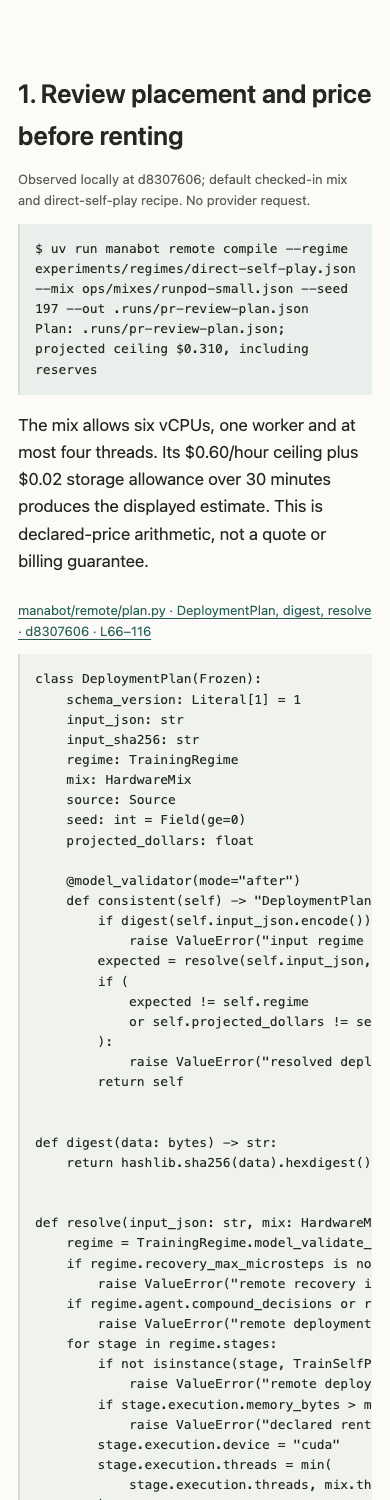
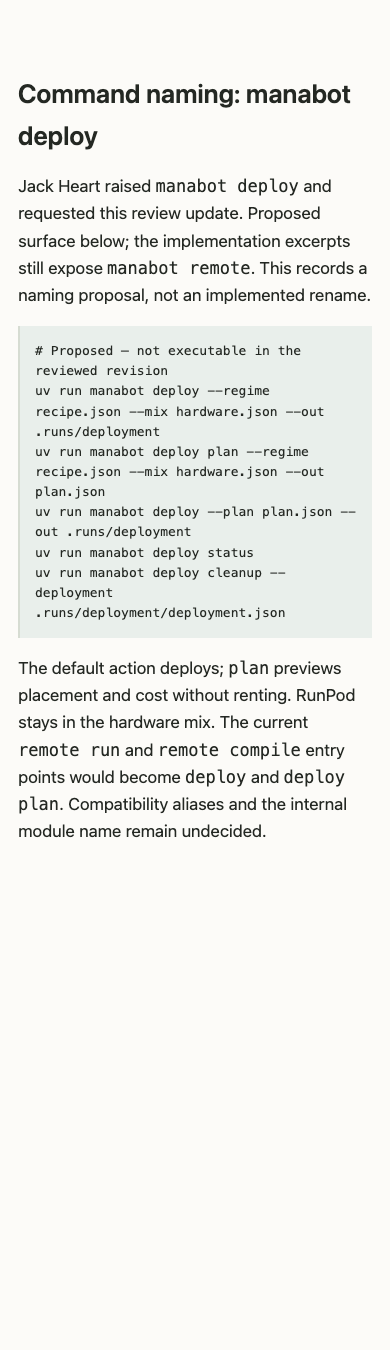
lf land: stage uncommitted changes

diff --git a/scratch/pr-review.html b/scratch/pr-review.html
@@ -1,17 +1,22 @@
 <!doctype html><html lang="en"><meta charset="utf-8"><meta name="viewport" content="width=device-width, initial-scale=1"><title>Remote training · ETU-114 review</title><style>
 :root{color-scheme:light}*{box-sizing:border-box}body{margin:0;background:#fcfbf8;color:#242823;font:17px/1.6 system-ui,sans-serif}main{max-width:1120px;margin:auto;padding:48px 34px 100px}h1{font-size:38px;font-weight:600;letter-spacing:-1px;line-height:1.2}h2{font-size:26px;font-weight:600;margin:0 0 12px}p{max-width:850px}a{color:#245e55;text-underline-offset:3px}nav{display:flex;gap:22px;flex-wrap:wrap;margin:30px 0}section{margin-top:65px;scroll-margin-top:24px}small,.caption,figcaption{font-size:13px;color:#59615a}.scope{font-size:14px;overflow-wrap:anywhere}table{width:100%;border-collapse:collapse;margin:28px 0}th,td{text-align:left;vertical-align:top;padding:15px 14px;border-bottom:1px solid #d9ddd5}th{font-size:14px}td:first-child{width:23%}figure{margin:25px 0}figcaption{margin-bottom:8px}pre{background:#f0f2ed;padding:22px;overflow:auto;font:14px/1.55 ui-monospace,SFMono-Regular,Consolas,monospace;tab-size:4;border-left:2px solid #d6dcd2}pre.terminal{background:#e9efeb;white-space:pre-wrap;overflow-wrap:anywhere}.note{border-left:3px solid #8e7653;padding-left:18px}details{margin:24px 0}summary{cursor:pointer;color:#245e55}a:focus-visible,summary:focus-visible,pre:focus-visible{outline:3px solid #a56324;outline-offset:4px}footer{margin-top:65px;border-top:1px solid #d9ddd5;padding-top:20px}@media(max-width:640px){main{padding:28px 18px 65px}h1{font-size:30px}pre{padding:15px;font-size:13px}table,tbody,tr,td{display:block}thead{display:none}td{border:0;padding:7px 0}td:first-child{width:auto;font-weight:600}tr{border-bottom:1px solid #d9ddd5;padding:14px 0}td:before{content:attr(data-label);display:block;font-size:12px;color:#59615a}section{margin-top:45px}}@media print{body{background:white}main{max-width:none;padding:0}nav{display:none}pre{white-space:pre-wrap;overflow-wrap:anywhere;font-size:10px}h2,figcaption{break-after:avoid}details{display:block}a{color:inherit}}
-</style><main><header><small>ETU-114 · implementation walkthrough · 6 October 2026</small><h1>Run a regime. Bring the evidence home.</h1><p>The new <code>manabot remote</code> command resolves an existing self-play recipe onto one declared RunPod GPU, retrieves its records and policies, then confirms deletion. The software path is present; the real under-$5 deployment remains unproved.</p>
-<p class="scope">Local branch comparison: base <code>fd7437dfd84cd1e24785a6d7febee78fceff3d80</code><br>Head <code>d830760603c0bfe277937b17768bc4c33139272c</code>. GitHub reports no PR for this branch. The checkout was clean at inspection; this review adds only local review artifacts. Source links are revision-pinned, but availability of this unpublished head was not established.</p></header>
-<nav aria-label="Reading route"><a href="#plan">1. Review cost</a><a href="#run">2. Rent and train</a><a href="#return">3. Bring results home</a><a href="#cleanup">4. Recover cleanup</a></nav><table><thead><tr><th>When you…</th><th>What happens</th><th>Where the code controls this</th></tr></thead><tbody>
+</style><main><header><small>ETU-114 · implementation walkthrough · 6 October 2026</small><h1>Run a regime. Bring the evidence home.</h1><p>The new <code>manabot remote</code> command resolves an existing self-play recipe onto one declared RunPod GPU, retrieves its records and policies, then confirms deletion. The documented live proof now includes CUDA self-play, returned raw/EMA checkpoints, four terminal replayed arena games and confirmed empty inventory.</p>
+<p class="scope"><a href="https://github.com/loopflowstudio/etude/pull/252">PR #252</a> · base <code>d7b69fc016c9b9d90c48190a414eb0cff6fe94f9</code><br>Published head <code>6d718f770b4be0064ca300f9558a3fb3f8f4d6d8</code>. This local review refresh is unpublished. Excerpts are revision-pinned; the compile transcript retains its original observation revision.</p></header>
+<nav aria-label="Reading route"><a href="#command-review">Command naming</a><a href="#plan">1. Review cost</a><a href="#run">2. Rent and train</a><a href="#return">3. Bring results home</a><a href="#cleanup">4. Recover cleanup</a></nav><table><thead><tr><th>When you…</th><th>What happens</th><th>Where the code controls this</th></tr></thead><tbody>
 <tr><td data-label="When you…">Compile a regime and mix</td><td data-label="What happens">A plan file records the resolved CUDA recipe, source identity and projected cost before a rental.</td><td data-label="Code"><a href="#plan">DeploymentPlan</a> binds the inputs; resolve limits threads using the declared rental.</td></tr>
 <tr><td data-label="When you…">Run the saved plan</td><td data-label="What happens">A short pod first demonstrates deadline deletion. Only then does the training pod start under the same outer allowance.</td><td data-label="Code"><a href="#run">run_command and deploy</a> validate source and record each attempt in a private Receipt.</td></tr>
 <tr><td data-label="When you…">Use the returned checkpoint</td><td data-label="What happens">Its original bytes are checked against the run and database, then loaded through the ordinary policy loader.</td><td data-label="Code"><a href="#return">verify_training_bundle</a> admits policy exports; Bundle resolves their relocated paths.</td></tr>
 <tr><td data-label="When you…">Interrupt a launch or retry cleanup</td><td data-label="What happens">Deletion is attempted for recorded rentals. Unconfirmed absence is a loud error; incomplete costs stay unknown.</td><td data-label="Code"><a href="#cleanup">deploy’s finally block and cleanup</a> preserve the receipt and retry deletion without resuming training.</td></tr></tbody></table>
-<section id="plan"><h2>1. Review placement and price before renting</h2>
+<section id="command-review"><h2>Command naming: manabot deploy</h2><p>Jack Heart raised <code>manabot deploy</code> and requested this review update. Proposed surface below; the implementation excerpts still expose <code>manabot remote</code>. This records a naming proposal, not an implemented rename.</p><pre class="terminal" tabindex="0"># Proposed — not executable in the reviewed revision
+uv run manabot deploy --regime recipe.json --mix hardware.json --out .runs/deployment
+uv run manabot deploy plan --regime recipe.json --mix hardware.json --out plan.json
+uv run manabot deploy --plan plan.json --out .runs/deployment
+uv run manabot deploy status
+uv run manabot deploy cleanup --deployment .runs/deployment/deployment.json</pre><p>The default action deploys; <code>plan</code> previews placement and cost without renting. RunPod stays in the hardware mix. The current <code>remote run</code> and <code>remote compile</code> entry points would become <code>deploy</code> and <code>deploy plan</code>. Compatibility aliases and the internal module name remain undecided.</p></section><section id="plan"><h2>1. Review placement and price before renting</h2>
 <p class="caption">Observed locally at d8307606; default checked-in mix and direct-self-play recipe. No provider request.</p><pre class="terminal" tabindex="0">$ uv run manabot remote compile --regime experiments/regimes/direct-self-play.json --mix ops/mixes/runpod-small.json --seed 197 --out .runs/pr-review-plan.json
 Plan: .runs/pr-review-plan.json; projected ceiling $0.310, including reserves</pre>
 <p>The mix allows six vCPUs, one worker and at most four threads. Its $0.60/hour ceiling plus $0.02 storage allowance over 30 minutes produces the displayed estimate. This is declared-price arithmetic, not a quote or billing guarantee.</p>
-<figure><figcaption><a href="https://github.com/loopflowstudio/etude/blob/d830760603c0bfe277937b17768bc4c33139272c/manabot/remote/plan.py#L66-L116">manabot/remote/plan.py · DeploymentPlan, digest, resolve · d8307606 · L66–116</a></figcaption><pre tabindex="0"><code>class DeploymentPlan(Frozen):
+<figure><figcaption><a href="https://github.com/loopflowstudio/etude/blob/6d718f770b4be0064ca300f9558a3fb3f8f4d6d8/manabot/remote/plan.py#L66-L116">manabot/remote/plan.py · DeploymentPlan, digest, resolve · 6d718f77 · L66–116</a></figcaption><pre tabindex="0"><code>class DeploymentPlan(Frozen):
     schema_version: Literal[1] = 1
     input_json: str
     input_sha256: str
@@ -68,7 +73,7 @@ def resolve(input_json: str, mix: HardwareMix) -&gt; TrainingRegime:
 [resolved plan JSON printed here]
 [after completion] Evidence: .runs/remote-example/evidence; deletion confirmed; estimated dollars: &lt;estimate&gt;
 &lt;verified local policy paths&gt;</pre>
-<figure><figcaption><a href="https://github.com/loopflowstudio/etude/blob/d830760603c0bfe277937b17768bc4c33139272c/manabot/remote/cli.py#L41-L65">manabot/remote/cli.py · run_command · d8307606 · L41–65</a></figcaption><pre tabindex="0"><code>@app.command(&quot;run&quot;)
+<figure><figcaption><a href="https://github.com/loopflowstudio/etude/blob/6d718f770b4be0064ca300f9558a3fb3f8f4d6d8/manabot/remote/cli.py#L41-L65">manabot/remote/cli.py · run_command · 6d718f77 · L41–65</a></figcaption><pre tabindex="0"><code>@app.command(&quot;run&quot;)
 def run_command(
     out: Path = typer.Option(...),
     plan: Path | None = None,
@@ -93,8 +98,8 @@ def run_command(
     for policy in result.policies:
         typer.echo(policy)
 </code></pre></figure>
-<p>Deployment requires the exact committed source to be publicly fetchable. Each command uses a fresh directory, stores intent before create, and records provider identifiers only in private evidence. Receipt owns deployment state; the existing TrainingRun and VerifyStore retain training authority.</p>
-<figure><figcaption><a href="https://github.com/loopflowstudio/etude/blob/d830760603c0bfe277937b17768bc4c33139272c/manabot/remote/deploy.py#L30-L57">manabot/remote/deploy.py · Attempt and Receipt · d8307606 · L30–57</a></figcaption><pre tabindex="0"><code>class Attempt(BaseModel):
+<p class="note"><strong>Proposed type names:</strong> <code>RentalAttempt</code> and <code>DeploymentReceipt</code>. Jack Heart flagged the existing names as vague. Each rental attempt describes one intended pod, including uncertain creation or deletion; the deployment receipt groups those rentals with the plan, returned policies and overall outcome. Source below retains the implemented names.</p><p>Deployment requires the exact committed source to be publicly fetchable. Each command uses a fresh directory, stores intent before create, and records provider identifiers only in private evidence. Receipt owns deployment state; the existing TrainingRun and VerifyStore retain training authority.</p>
+<figure><figcaption><a href="https://github.com/loopflowstudio/etude/blob/6d718f770b4be0064ca300f9558a3fb3f8f4d6d8/manabot/remote/deploy.py#L30-L57">manabot/remote/deploy.py · Attempt and Receipt · 6d718f77 · L30–57</a></figcaption><pre tabindex="0"><code>class Attempt(BaseModel):
     name: str
     purpose: Literal[&quot;guardian&quot;, &quot;training&quot;]
     intent_time: float
@@ -122,7 +127,7 @@ class Receipt(BaseModel):
     complete: bool = False
     policies: list[str] = Field(default_factory=list)
     estimated_dollars: float | None = None</code></pre></figure>
-<figure><figcaption><a href="https://github.com/loopflowstudio/etude/blob/d830760603c0bfe277937b17768bc4c33139272c/manabot/remote/deploy.py#L351-L387">manabot/remote/deploy.py · deploy · guardian admission and training provisioning · d8307606 · L351–387</a></figcaption><pre tabindex="0"><code>        previous_signal = signal.signal(signal.SIGTERM, _terminate_signal)
+<figure><figcaption><a href="https://github.com/loopflowstudio/etude/blob/6d718f770b4be0064ca300f9558a3fb3f8f4d6d8/manabot/remote/deploy.py#L351-L387">manabot/remote/deploy.py · deploy · guardian admission and training provisioning · 6d718f77 · L351–387</a></figcaption><pre tabindex="0"><code>        previous_signal = signal.signal(signal.SIGTERM, _terminate_signal)
         try:
             receipt.phase = &quot;guardian-probe&quot;
             # Both probe and training are charged against this same deadline/cap.
@@ -159,8 +164,8 @@ class Receipt(BaseModel):
             )
             receipt.phase = &quot;bootstrap&quot;
             save(path, receipt)</code></pre></figure>
-<p class="note">The probe is repeated on every run and consumes setup time. During training the terminal has no live progress stream; the receipt’s phase is saved locally. A provider outage or a container that never starts can leave cleanup unresolved.</p><details><summary>CUDA wiring and the independent pod guardian</summary><p>Compared with the base, Execution now admits CUDA. The executor moves Agent before optimizer construction, passes device to collector and Experiment, synchronizes charged phase boundaries and preserves CUDA RNG around export admission. CPU remains the default. These changes have not yet been exercised on a real GPU in this implementation.</p>
-<figure><figcaption><a href="https://github.com/loopflowstudio/etude/blob/d830760603c0bfe277937b17768bc4c33139272c/manabot/training/execution.py#L869-L919">manabot/training/execution.py · _execute_regime · self-play setup · d8307606 · L869–919</a></figcaption><pre tabindex="0"><code>                if stage.initial and snapshot is None:
+<p class="note">The probe is repeated on every run and consumes setup time. During training the terminal has no live progress stream; the receipt’s phase is saved locally. A provider outage or a container that never starts can leave cleanup unresolved.</p><details><summary>CUDA wiring and the independent pod guardian</summary><p>Compared with the base, Execution now admits CUDA. The executor moves Agent before optimizer construction, passes device to collector and Experiment, synchronizes charged phase boundaries and preserves CUDA RNG around export admission. CPU remains the default. The retained CUDA device checks passed on rented hardware; the live attempts below supply complete-workflow evidence.</p>
+<figure><figcaption><a href="https://github.com/loopflowstudio/etude/blob/6d718f770b4be0064ca300f9558a3fb3f8f4d6d8/manabot/training/execution.py#L895-L945">manabot/training/execution.py · _execute_regime · self-play setup · 6d718f77 · L895–945</a></figcaption><pre tabindex="0"><code>                if stage.initial and snapshot is None:
                     # Validation permits only the latest live collector to continue.
                     trainer, ema, iteration = self_play_session
                 else:
@@ -211,7 +216,7 @@ class Receipt(BaseModel):
                             log_level=&quot;WARNING&quot;,
                         )
                     )</code></pre></figure>
-<figure><figcaption><a href="https://github.com/loopflowstudio/etude/blob/d830760603c0bfe277937b17768bc4c33139272c/manabot/remote/guardian.sh#L1-L13">manabot/remote/guardian.sh · pod deadline loop · d8307606 · L1–13</a></figcaption><pre tabindex="0"><code>#!/bin/bash
+<figure><figcaption><a href="https://github.com/loopflowstudio/etude/blob/6d718f770b4be0064ca300f9558a3fb3f8f4d6d8/manabot/remote/guardian.sh#L1-L13">manabot/remote/guardian.sh · pod deadline loop · 6d718f77 · L1–13</a></figcaption><pre tabindex="0"><code>#!/bin/bash
 # Started by PID 1 before source/bootstrap. No account credential is accepted.
 set -eu
 umask 077
@@ -225,7 +230,7 @@ while true; do
     sleep 5
 done</code></pre></figure>
 </details></section><section id="return"><h2>3. Return immutable evidence and load the policy</h2><p>After training, the remote command packages the closed output tree and downloads its manifest and files. Producer paths remain unchanged in TrainingRun; the bundle maps them to verified local files. A failed training status or mismatched database prevents successful deployment.</p>
-<figure><figcaption><a href="https://github.com/loopflowstudio/etude/blob/d830760603c0bfe277937b17768bc4c33139272c/manabot/remote/bundle.py#L99-L134">manabot/remote/bundle.py · verify_training_bundle · d8307606 · L99–134</a></figcaption><pre tabindex="0"><code>def verify_training_bundle(root: Path, bundle: Bundle) -&gt; list[Path]:
+<figure><figcaption><a href="https://github.com/loopflowstudio/etude/blob/6d718f770b4be0064ca300f9558a3fb3f8f4d6d8/manabot/remote/bundle.py#L99-L134">manabot/remote/bundle.py · verify_training_bundle · 6d718f77 · L99–134</a></figcaption><pre tabindex="0"><code>def verify_training_bundle(root: Path, bundle: Bundle) -&gt; list[Path]:
     &quot;&quot;&quot;Check all declared outputs; admit raw/EMA policies through the ordinary loader.&quot;&quot;&quot;
     bundle.verify(root)
     required = {&quot;training.sqlite&quot;, &quot;run/run.json&quot;}
@@ -261,8 +266,8 @@ done</code></pre></figure>
     if not policies:
         raise ValueError(&quot;returned run has no policy exports&quot;)
     return policies</code></pre></figure>
-<p class="note">Consequential acceptance gap: a successful <code>remote run</code> proves loader admission, not a completed game. The separate <code>tests.remote.live_acceptance</code> helper requires actual CUDA optimizer exposures and evaluates one four-leg arena block through the existing monitor evaluator. That helper has not run; a loader-only success cannot satisfy the Task.</p><details><summary>The saved-artifact arena acceptance path</summary>
-<figure><figcaption><a href="https://github.com/loopflowstudio/etude/blob/d830760603c0bfe277937b17768bc4c33139272c/tests/remote/live_acceptance.py#L61-L90">tests/remote/live_acceptance.py · main · CUDA work and arena evaluation · d8307606 · L61–90</a></figcaption><pre tabindex="0"><code>    if not all(
+<p class="note">API distinction: a successful <code>remote run</code> proves loader admission, not a completed game. The separate <code>tests.remote.live_acceptance</code> helper requires actual CUDA optimizer exposures and evaluates one four-leg arena block through the existing monitor evaluator. The current remote-training contract records completed four-game proofs for attempts 004–006. Arena verification remains separate from the deployment command.</p><details><summary>The saved-artifact arena acceptance path</summary>
+<figure><figcaption><a href="https://github.com/loopflowstudio/etude/blob/6d718f770b4be0064ca300f9558a3fb3f8f4d6d8/tests/remote/live_acceptance.py#L61-L90">tests/remote/live_acceptance.py · main · CUDA work and arena evaluation · 6d718f77 · L61–90</a></figcaption><pre tabindex="0"><code>    if not all(
         stage.actual_device.startswith(&quot;cuda&quot;) and stage.optimizer_exposures &gt; 0
         for stage in run.stages
     ):
@@ -300,7 +305,7 @@ Recorded deployment pods confirmed absent.
 
 [If cost evidence is missing, stderr also reports:]
 BILLING UNRESOLVED; deletion confirmed but cost evidence is incomplete</pre>
-<figure><figcaption><a href="https://github.com/loopflowstudio/etude/blob/d830760603c0bfe277937b17768bc4c33139272c/manabot/remote/deploy.py#L418-L444">manabot/remote/deploy.py · deploy · failure and finally cleanup · d8307606 · L418–444</a></figcaption><pre tabindex="0"><code>        except BaseException as error:
+<figure><figcaption><a href="https://github.com/loopflowstudio/etude/blob/6d718f770b4be0064ca300f9558a3fb3f8f4d6d8/manabot/remote/deploy.py#L418-L444">manabot/remote/deploy.py · deploy · failure and finally cleanup · 6d718f77 · L418–444</a></figcaption><pre tabindex="0"><code>        except BaseException as error:
             # Do not serialize arbitrary exceptions carrying provider payloads.
             receipt.error = type(error).__name__
             raise
@@ -327,7 +332,7 @@ BILLING UNRESOLVED; deletion confirmed but cost evidence is incomplete</pre>
                     f&quot;CLEANUP UNCONFIRMED; possible billing for {[(a.pod_id or a.name, a.hourly_rate) for a in receipt.attempts if a.deleted_time is None]}. Run: uv run manabot remote cleanup --deployment {path}&quot;
                 )
         return receipt</code></pre></figure>
-<figure><figcaption><a href="https://github.com/loopflowstudio/etude/blob/d830760603c0bfe277937b17768bc4c33139272c/manabot/remote/deploy.py#L447-L477">manabot/remote/deploy.py · cleanup · d8307606 · L447–477</a></figcaption><pre tabindex="0"><code>def cleanup(path: Path) -&gt; Receipt:
+<figure><figcaption><a href="https://github.com/loopflowstudio/etude/blob/6d718f770b4be0064ca300f9558a3fb3f8f4d6d8/manabot/remote/deploy.py#L447-L477">manabot/remote/deploy.py · cleanup · 6d718f77 · L447–477</a></figcaption><pre tabindex="0"><code>def cleanup(path: Path) -&gt; Receipt:
     receipt = Receipt.model_validate_json(path.read_text())
     provider = RunPod()
     with deployment_lock(Path.home() / &quot;.cache/manabot&quot;):
@@ -359,7 +364,7 @@ BILLING UNRESOLVED; deletion confirmed but cost evidence is incomplete</pre>
             )
     return receipt</code></pre></figure>
 <p>The receipt, failed attempt and any downloaded files survive. Cleanup does not retry training or complete an interrupted transfer; another deployment needs a fresh output directory. Confirmed absence and known cost are distinct: the acceptance helper refuses another rental when prior cost is unknown.</p><details><summary>How absence is established</summary>
-<figure><figcaption><a href="https://github.com/loopflowstudio/etude/blob/d830760603c0bfe277937b17768bc4c33139272c/manabot/remote/deploy.py#L137-L177">manabot/remote/deploy.py · confirm_delete · d8307606 · L137–177</a></figcaption><pre tabindex="0"><code>def confirm_delete(provider: RunPod, attempt: Attempt, until: float) -&gt; bool:
+<figure><figcaption><a href="https://github.com/loopflowstudio/etude/blob/6d718f770b4be0064ca300f9558a3fb3f8f4d6d8/manabot/remote/deploy.py#L137-L177">manabot/remote/deploy.py · confirm_delete · 6d718f77 · L137–177</a></figcaption><pre tabindex="0"><code>def confirm_delete(provider: RunPod, attempt: Attempt, until: float) -&gt; bool:
     &quot;&quot;&quot;Delete only the recorded pod or exact unique name; failed reads are unknown.&quot;&quot;&quot;
     while time.time() &lt; until:
         try:
@@ -400,4 +405,4 @@ BILLING UNRESOLVED; deletion confirmed but cost evidence is incomplete</pre>
             pass
         time.sleep(min(2, max(0, until - time.time())))
     return False</code></pre></figure>
-</details></section><section id="evidence"><h2>What remains to prove</h2><p>Accepted intent is one-command rental, CUDA execution, returned playable artifacts and visible cleanup failure. The single-GPU restriction, per-run guardian probe and separate arena helper are implementation choices. No new human approval or design change was recorded in this review.</p><p>Newly observed here: compile succeeded with a $0.310 projection. Inspected fixtures cover price mismatch, ambiguous create, bootstrap failure, interruption, deletion failure and bundle corruption. The design records 50 focused passes and one CUDA-host skip; that is prior evidence, not a new test run.</p><p>Complete mocked deployment and training/transfer timeout coverage remain open. The real guardian, CUDA run, returned checkpoint games and final empty inventory are still required. The documented zero-pod inventory is a dated 6 October observation; this review did not query current rentals.</p><p>The old AWS ops stack and boto3 dependencies are removed. Existing regime training, policy admission and arena evaluation supply the learning/gameplay paths; this change adds deployment around them.</p></section><footer><p><a href="remote-training-design.md">Design and retained shakedown evidence</a> · <a href="../docs/remote-training.md">Remote training contract</a> · <a href="remote-training-review.md">Review notes and next action</a></p><small>Local review artifact. No rental, product-code change, publication or merge decision.</small></footer></main></html>
+</details></section><section id="evidence"><h2>Evidence now on record</h2><p>The <a href="../docs/remote-training.md">remote-training contract at 6d718f77</a> records attempt 004 completing 27.73 minutes of CUDA self-play, 358,400 optimizer exposures, verified run/SQLite and raw/EMA artifacts, four terminal exact-replayed arena games and empty inventory. Attempt 005 completed 42.96 minutes; attempt 006 exercised local-disk setup. These are retained reports inspected for this refresh, not newly executed checks.</p><p>Task expenditure through attempt 007 is reported as $1.6591 estimated/reported, including failed attempts and the prior $0.29 shakedown; no provider invoice was obtained. The latest recorded inventory is zero pods on 6 October. No fresh inventory query or rental was made for this review.</p><p>The added two-experiment example reuses one pod at one exact source revision, performs setup once, returns both runs, and deletes the rental. It is a separate example, not a new public reuse mode. Default deployment still creates and deletes a fresh pod.</p><p>Full mocked default-deployment success and training/transfer timeout coverage are not claimed. Deployment evidence does not establish strength or chapter acceptance. The command-naming proposal above is the new review discussion; no merge decision or approval of the full implementation is recorded.</p><details><summary>Earlier evidence and source changes</summary><p>The compile transcript was captured at d8307606 and projected $0.310 without a provider request. Current documentation records 405 local passes with three skips, a later 47-check remote suite with one local CUDA skip, and two real CUDA device tests. These results were not rerun here. Compared with the PR base, this work adds RunPod deployment, CUDA wiring and read-only bundle admission and removes the old AWS ops stack. Existing training and arena APIs remain their respective authorities.</p></details></section><footer><p><a href="remote-training-design.md">Design and retained shakedown evidence</a> · <a href="../docs/remote-training.md">Remote training contract</a> · <a href="remote-training-review.md">Review notes and next action</a></p><small>Local review artifact. No rental, product-code change, publication or merge decision.</small></footer></main></html>

diff --git a/scratch/remote-training-review.md b/scratch/remote-training-review.md
@@ -1,35 +1,64 @@
 # Remote training delivery review — 2026-10-06
 
-Walkthrough: [pr-review.html](pr-review.html). Intent and prior evidence:
-[remote-training-design.md](remote-training-design.md),
-[remote contract](../docs/remote-training.md).
+[Walkthrough](pr-review.html) · [Design](remote-training-design.md) ·
+[Live evidence and contract](../docs/remote-training.md).
 
-Scope: local comparison fd7437dfd84cd1e24785a6d7febee78fceff3d80 to
- d830760603c0bfe277937b17768bc4c33139272c. GitHub returned no PR for the
-current branch; the checkout was clean before review artifacts were added.
+Refreshed for PR #252, base d7b69fc016c9b9d90c48190a414eb0cff6fe94f9,
+head 6d718f770b4be0064ca300f9558a3fb3f8f4d6d8. This review refresh is local.
 
-Agent review feedback: the software connects declared-resource compilation,
-private deployment receipts, guardian admission, existing self-play execution,
-immutable artifact relocation and explicit cleanup recovery. The ordinary run
-command admits policies through the loader; it does not play arena games.
-The separate live acceptance helper owns that proof. No live deployment,
-CUDA optimizer run, pod self-deletion or returned-checkpoint game was observed
-in this review. The dated zero-pod inventory is prior evidence, not a fresh
-inventory query. Complete mocked deployment and training/transfer timeout
-coverage also remain open per the design.
+## Command naming feedback
 
-Agreed design changes: none recorded. Jack Heart's supplied direction remains
-accepted; no approval of agent-selected implementation choices is inferred.
-No product code was changed and no navigation or merge decision was made.
+Jack Heart suggested `cloud` in place of `remote`, then raised `manabot deploy`
+and requested an updated review. The proposed public surface is:
 
-New check: local compile at d8307606 succeeded, wrote
-`.runs/pr-review-plan.json`, and displayed a $0.310 projected ceiling including
-reserves. No provider request or rental occurred. Prior 50-pass / one-CUDA-skip
-results are attributed to the design rather than presented as rerun evidence.
+- `uv run manabot deploy --regime recipe.json --mix hardware.json --out .runs/deployment`
+- `uv run manabot deploy plan --regime recipe.json --mix hardware.json --out plan.json`
+- `uv run manabot deploy --plan plan.json --out .runs/deployment`
+- `uv run manabot deploy status`
+- `uv run manabot deploy cleanup --deployment receipt.json`
 
-Next useful action: Jack Heart reviews the walkthrough; retain any feedback here.
-The following authorized delivery work still needs complete lifecycle checks and,
-after exact source publication, the all-attempt under-$5 live helper with returned
-raw/EMA evidence, four terminal replayed arena legs and final inventory. Unknown
-billing or unproved scoped deletion must remain explicit failures. Larger-model
-and distributed-RL work remain separate.
+Default invocation deploys; `plan` previews placement and price. RunPod remains
+in the hardware mix. Current implementation still uses `remote run` and
+`remote compile`. No product code changed. Compatibility aliases and internal
+module naming remain unresolved; the review update does not imply full design
+approval or a merge/navigation decision.
+
+## Deployment type naming
+
+Jack Heart flagged `Attempt` and `Receipt` as vague. Proposed replacements:
+`RentalAttempt` for each intended guardian or training pod rental, and
+`DeploymentReceipt` for the full operation's plan binding, attempts, returned
+policies, cost and outcome. These names distinguish pod-level state from the
+whole deployment and from existing training receipts. The walkthrough retains
+real source under its current names; no implementation rename has been made.
+
+## Evidence refresh
+
+The prior review's unproved-live status is superseded by the current remote
+contract: attempts 004–006 retain CUDA work, returned policies and four terminal
+replayed arena games with deletion; 007 proves two-run setup reuse separately.
+Total recorded Task cost is $1.6591 estimated/reported including prior failures
+and shakedown. Zero pods is a dated observation, not a new inventory query.
+Reports were inspected, not rerun; no rental occurred in this review update.
+The original local compile at d8307606 produced the $0.310 projection retained
+in the walkthrough. Full mocked default success/timeout coverage is still not
+claimed. No strength or chapter acceptance follows.
+
+Next useful action: review the proposed command surface, then carry accepted
+feedback into the CLI, help, cleanup hints and documentation together. Keep
+recorded transcripts and frozen receipts unchanged. No Flow navigation is chosen.
+
+## Jack Heart's approval
+
+Jack Heart approved the review in this conversation: “yeah loos fine approved”.
+This includes the proposed `manabot deploy` command surface and the
+`RentalAttempt` / `DeploymentReceipt` names. Apply those changes together across
+CLI help, cleanup hints, imports, tests and documentation; preserve frozen
+receipts and historical transcripts. The naming changes are not yet implemented.
+This is human review approval; the following Flow step owns navigation and
+remaining delivery work.
+
+Review completion could not be recorded in Loopflow: both `lf session ready`
+and the supplied `lf session complete` command failed because the configured
+custom Home's development store is incompatible. Approval is retained here;
+Session completion remains pending. No Home migration or replacement attempted.
